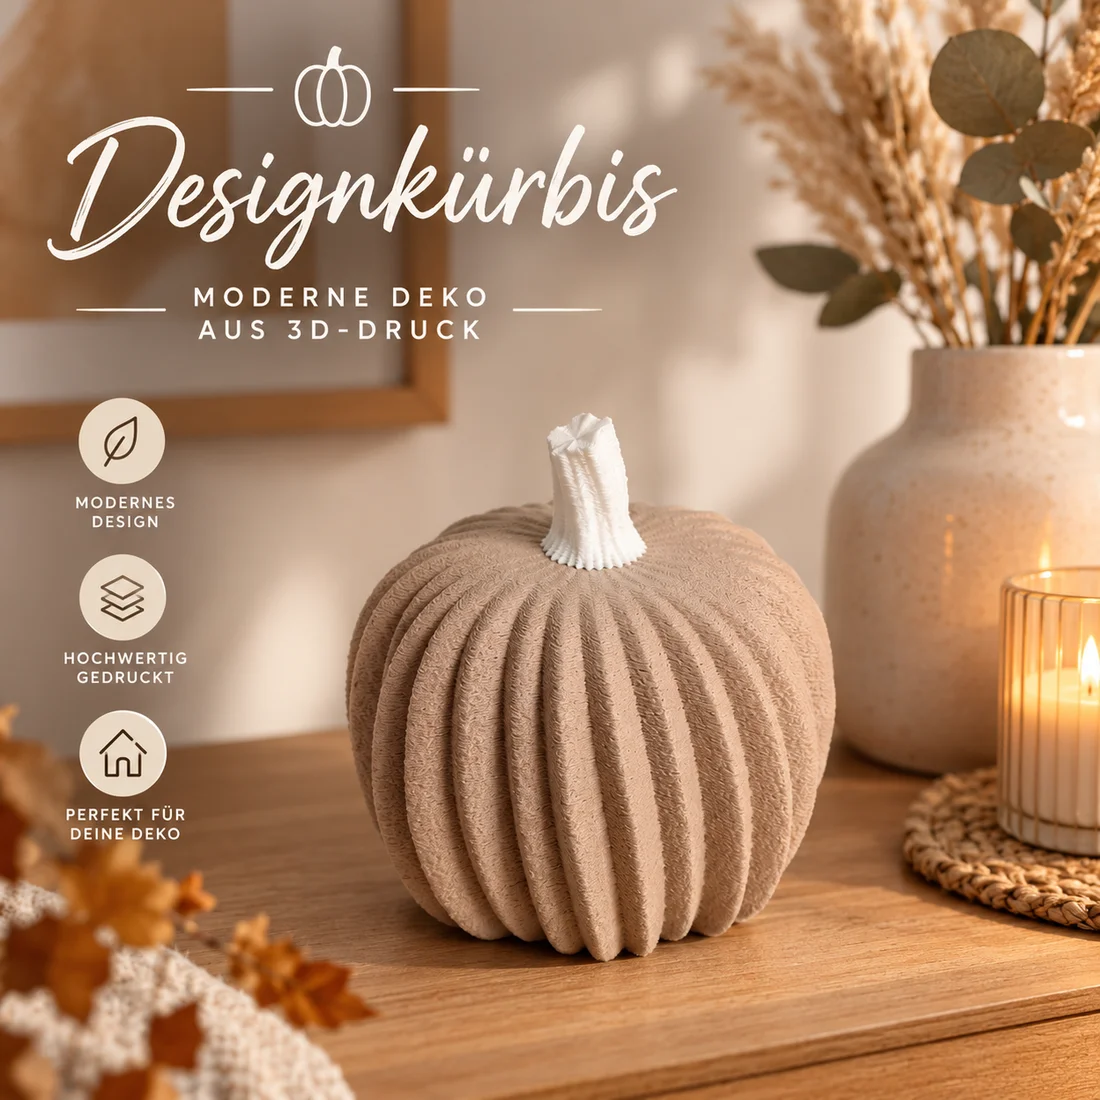
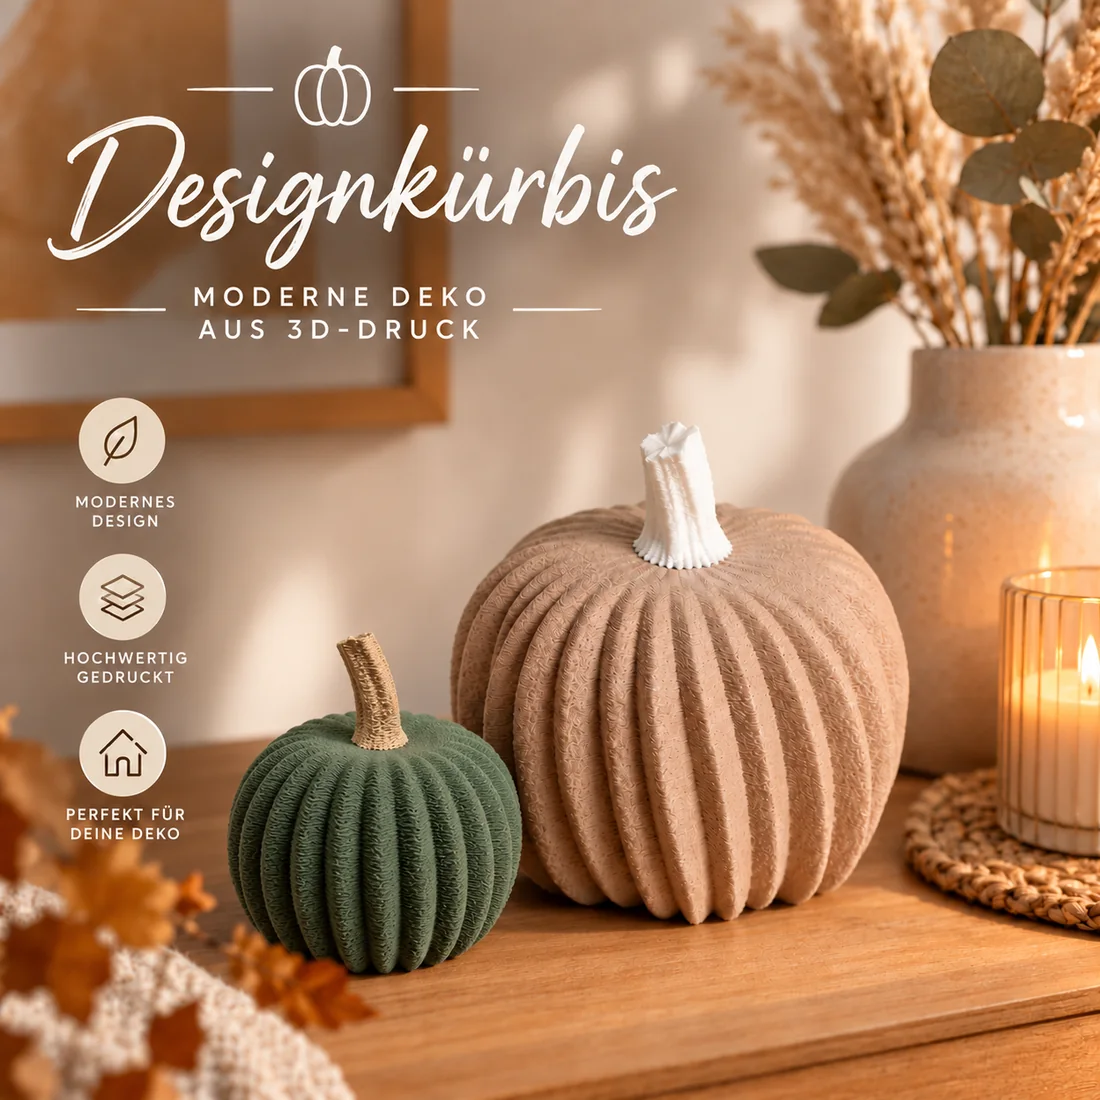
Design-Kuerbis: zwei Groessen (klein 6,90 / mittel 11,90), Farbe fuer Kuerbis und Strunk frei aus 3 Farben, neues Cover + 2 Galeriebilder; Individueller Untersetzer: Bild stehend als 2. Galeriebild
Claude-Session: https://claude.ai/code/session_01J3XNNkixmMVkzjtWsont1N

diff --git a/lib/shop/produkte.ts b/lib/shop/produkte.ts
@@ -59,6 +59,8 @@ export interface Produkt {
   kombinationen?: Farbkombination[];
   /** Mehrteilige Artikel: je Teil eine Lagerfarbe (Auswahl.teilFarben: teilId -> farbeId). */
   teile?: { id: string; label: string; /** Vorauswahl: ähnlichste Lagerfarbe zu dieser Farbe (sonst Standard je Teil-ID, siehe teilfarben.ts) */ referenz?: string }[];
+  /** Feste Farbpalette für mehrteilige Artikel statt der Lagerfarben (Design-Kürbis: nur drei Farben, Alex 19.10.). Keine Lagerprüfung. */
+  festeFarben?: { id: string; name: string; hex: string }[];
   personalisierung: null | Personalisierung;
   /** Zusätzlich wählbare Linienfarbe (Zierlinien am Rand, Individueller Untersetzer): Lagerfarbe, hebt sich vom Untergrund ab. */
   linienfarbe?: boolean;
@@ -105,7 +107,12 @@ const FARBEN_SKELETT: Farbkombination[] = [
   { id: "orange", label: "Orange", farben: [ORANGE] },
 ];
 // Feste Farbe ohne Auswahl (Halloween-Untersetzer: nur die abgebildete Ausführung schwarz/orange/weiß, Alex 18.10.): eine einzige Kombination, die Seite zeigt sie als Hinweis statt als Auswahl
-const FARBEN_DESIGN_KUERBIS: Farbkombination[] = [{ id: "wie-abgebildet", label: "Wie abgebildet", farben: [{ name: "Latte", hex: "#d3b7a7" }, WEISS] }]; // Latte + weißer Strunk, wie fotografiert
+// Design-Kürbis: Kürbis und Strunk getrennt in je einer dieser drei Farben (hex wie die Lagerfarben Latte Brown / Olive grün)
+const FARBEN_DESIGN_KUERBIS = [
+  { id: "lattebraun", name: "Lattebraun", hex: "#d3b7a7" },
+  { id: "weiss", name: "Weiß", hex: "#f4f1ea" },
+  { id: "olivgruen", name: "Olivgrün", hex: "#5a6d3d" },
+];
 const FARBEN_NUR_SCHWARZ: Farbkombination[] = [{ id: "wie-abgebildet", label: "Wie abgebildet", farben: [SCHWARZ, ORANGE, WEISS] }];
 /** Artikel mit nur einer Farbe je Auswahl heißen „Farbe“ statt „Farbkombination“. */
 export const nurEinzelfarben = (p: { kombinationen?: Farbkombination[] }): boolean => !!p.kombinationen?.every((k) => k.farben.length === 1);
@@ -280,13 +287,16 @@ export const PRODUKTE: Produkt[] = [
   {
     slug: "design-kuerbis",
     name: "Design-Kürbis",
-    kurz: "Moderner Deko-Kürbis mit geschwungenen Lamellen, ca. 11 cm hoch.",
+    kurz: "Moderner Deko-Kürbis mit geschwungenen Lamellen in zwei Größen, Farbe für Kürbis und Strunk frei wählbar.",
     beschreibung:
-      "Ein Kürbis als Herbstdeko: 18 geschwungene Lamellen laufen wie gedreht um den Körper, oben sitzt ein gebogener Strunk mit gebrochener Spitze. Der Kürbis steht sicher auf einer flachen Bodenfläche und passt auf Fensterbank, Sideboard oder Esstisch. Er ist ein reines Deko-Stück ohne Öffnung, ein Teelicht passt nicht hinein. Körper und Strunk werden getrennt gedruckt und von mir zusammengesteckt und verklebt. Die Oberfläche ist fein und leicht rau, die Lamellen sieht man auch im Streiflicht. Den Kürbis gibt es aktuell nur in der abgebildeten Ausführung: Latte mit weißem Strunk.",
+      "Ein Kürbis als Herbstdeko: 18 geschwungene Lamellen laufen wie gedreht um den Körper, oben sitzt ein gebogener Strunk mit gebrochener Spitze. Der Kürbis steht sicher auf einer flachen Bodenfläche und passt auf Fensterbank, Sideboard oder Esstisch. Er ist ein reines Deko-Stück ohne Öffnung, ein Teelicht passt nicht hinein. Körper und Strunk werden getrennt gedruckt und von mir zusammengesteckt und verklebt. Die Oberfläche ist fein und leicht rau, die Lamellen sieht man auch im Streiflicht. Du wählst die Größe (Mittel ca. 11 cm, Klein ca. 6 cm hoch) und die Farbe für Kürbis und Strunk getrennt aus Olivgrün, Weiß und Lattebraun. Die Bilder zeigen Beispiele (Mittel in Latte mit weißem Strunk, Klein in Olivgrün mit Latte-Strunk).",
     gruppe: "allgemein", kategorien: ["sonstiges"], form: "laterne", grundfarbe: "#d9731a",
-    preisCent: 1190, masse: "110 × 110 × 115", material: MATERIAL, // Richtpreis (Karla 18.10.), Alex entscheidet; weitere Größen klein 55 × 57 mm (max. 6,90 €) und groß 140 × 145 mm folgen später
-    kombinationen: FARBEN_DESIGN_KUERBIS, // feste Ausführung ohne Farbwahl (Alex 18.10.); Farbvarianten kommen mit den weiteren Größen
-    optionen: [], // Größenauswahl (klein/mittel/groß) kommt, sobald die anderen Größen gedruckt sind; Versandmaße je Größe liegen schon in versand.ts
+    preisCent: 690, masse: null, material: MATERIAL, // Preise (Alex/Karla 18.10.): klein 6,90 (nie mehr), mittel 11,90; Maße stehen in den Größen-Optionen
+    teile: [{ id: "koerper", label: "Kürbis", referenz: "#d3b7a7" }, { id: "strunk", label: "Strunk", referenz: "#f4f1ea" }], // Standard = Latte + weißer Strunk (wie das Beispielfoto)
+    festeFarben: FARBEN_DESIGN_KUERBIS,
+    optionen: [
+      { id: "kuerbisgroesse", label: "Größe", optionen: [{ id: "klein", label: "Klein (55 × 57 mm)" }, { id: "mittel", label: "Mittel (110 × 115 mm)", aufpreisCent: 500 }] },
+    ],
     personalisierung: null, hinweise: [KEIN_SPIELZEUG],
   },
 ];

diff --git a/components/shop/ProductBuy.tsx b/components/shop/ProductBuy.tsx
@@ -18,7 +18,7 @@ import type { Farbe } from "@/lib/shop/farben";
 import { TEXTE } from "@/lib/shop/config";
 import { pruefeWunschtext } from "@/lib/shop/textfilter";
 import { LINIENFARBE_HINWEIS, LINIENFARBE_KEY, TEXTFARBE_HINWEIS, TEXTFARBE_KEY, automatischeLinienfarbe, automatischeTextfarbe, textfarbeErlaubt } from "@/lib/shop/textfarbe";
-import { standardTeilFarben } from "@/lib/shop/teilfarben";
+import { standardTeilFarben, teilQuelle } from "@/lib/shop/teilfarben";
 import { fuegeHinzu, ladeKorb, speichereKorb } from "@/lib/shop/auswahl";
 
 /** Lagerfarbe, die der Fotofarbe am nächsten liegt (Voreinstellung = Foto ohne Umfärbung); null, wenn keine nah genug ist. */
@@ -42,8 +42,9 @@ export default function ProductBuy({
   const kombi = kombis?.find((k) => k.id === kombiId);
   // Mehrteilige Artikel (Kürbis): je Teil eine eigene Lagerfarbe, Standard = ähnlichste Farbe zur Referenz (orange / schwarz).
   const teile = produkt.teile;
-  const [teilWahl, setTeilWahl] = useState<Record<string, string>>(() => (teile ? standardTeilFarben(teile, farben) : {}));
-  const teilFarbe = (id: string) => farben.find((f) => f.id === teilWahl[id]);
+  const teilFarben = teilQuelle(produkt, farben); // Design-Kürbis: feste Palette statt Lager
+  const [teilWahl, setTeilWahl] = useState<Record<string, string>>(() => (teile ? standardTeilFarben(teile, teilFarben) : {}));
+  const teilFarbe = (id: string) => teilFarben.find((f) => f.id === teilWahl[id]);
   const teileHex = teile ? Object.fromEntries(teile.flatMap((t) => { const f = teilFarbe(t.id); return f ? [[t.id, f.hex]] : []; })) : undefined;
   const [opt, setOpt] = useState<Record<string, string>>(() =>
     Object.fromEntries(produkt.optionen.map((g) => [g.id, g.optionen[0].id])),
@@ -307,7 +308,7 @@ export default function ProductBuy({
           </div>
           <p className="muted">{nurEinzelfarben(produkt) ? "Bildschirmfarben können leicht abweichen." : "Fertige Kombination aus drei Farben. Bildschirmfarben können leicht abweichen."}</p>
         </fieldset>
-      ) : teile && farben.length > 0 ? (
+      ) : teile && teilFarben.length > 0 ? (
         <>
           {teile.map((t) => {
             const gew = teilFarbe(t.id);
@@ -315,7 +316,7 @@ export default function ProductBuy({
               <fieldset key={t.id} className="shop-step">
                 <legend>Farbe {t.label}</legend>
                 <div className="shop-swatches">
-                  {farben.map((f) => (
+                  {teilFarben.map((f) => (
                     <label key={f.id} className="shop-swatch">
                       <input type="radio" name={`farbe-${t.id}`} value={f.id} checked={teilWahl[t.id] === f.id} onChange={() => setTeilWahl({ ...teilWahl, [t.id]: f.id })} aria-label={`${f.name} (${t.label})`} />
                       <span className="dot" style={{ background: f.hex }}>
@@ -324,11 +325,11 @@ export default function ProductBuy({
                     </label>
                   ))}
                 </div>
-                <p aria-live="polite" style={{ marginTop: 6 }}><strong>{t.label}: {gew?.name}</strong> · auf Lager</p>
+                <p aria-live="polite" style={{ marginTop: 6 }}><strong>{t.label}: {gew?.name}</strong>{produkt.festeFarben ? "" : " · auf Lager"}</p>
               </fieldset>
             );
           })}
-          <p className="muted">Nur Farben, die gerade im Regal liegen. Bildschirmfarben können leicht abweichen.</p>
+          <p className="muted">{produkt.festeFarben ? "Kürbis und Strunk kannst du in beliebiger Kombination wählen. Die Bilder zeigen Beispiele. Bildschirmfarben können leicht abweichen." : "Nur Farben, die gerade im Regal liegen. Bildschirmfarben können leicht abweichen."}</p>
         </>
       ) : farben.length > 0 ? (
         <fieldset className="shop-step">

diff --git a/lib/shop/fotos.ts b/lib/shop/fotos.ts
@@ -36,8 +36,9 @@ const ALT: Record<string, string[]> = {
     "Namensschild von schräg vorn, Beispieltext",
     "Namensschild von hinten",
   ],
-  // Foto 1 = Untersetzer von oben ohne Text: Farben und Text deiner Wahl werden live daraufgelegt (components/shop/UntersetzerAufdruck.tsx)
+  // Titelbild (Cover) zuerst, dann 3.webp (stehend mit Glas); Datei 1 = Untersetzer von oben ohne Text: Farben und Text deiner Wahl werden live daraufgelegt (components/shop/UntersetzerAufdruck.tsx), siehe LIVE_FOTO
   "spruch-untersetzer": [
+    "Individueller Untersetzer stehend neben einem Glas mit Zitrone und Minze",
     "Individueller Untersetzer von oben mit deinem Text und deinen Farben (Vorschau)",
     "Rückseite des Untersetzers mit selbstklebendem Kork (Option „Mit selbstklebendem Kork“)",
   ],
@@ -65,12 +66,10 @@ const ALT: Record<string, string[]> = {
     "Bewegliches Skelett sitzt, die Gelenke sind beweglich",
     "Bewegliches Skelett liegt in lockerer Pose",
   ],
-  // Fotos zeigen die mittlere Größe (110 mm) in Latte mit weißem Strunk
+  // Titelbild (Cover, mittel + klein im warmen Interieur) kommt automatisch zuerst; Galerie nur 2 Einzelbilder: 5.webp mittel, 6.webp klein (Alex 19.10.)
   "design-kuerbis": [
-    "Design-Kürbis mit geschwungenen Lamellen und hellem Strunk, Vorderansicht",
-    "Design-Kürbis von der Seite, Strunk leicht gebogen",
-    "Design-Kürbis auf der Seite liegend, flache Bodenfläche sichtbar",
-    "Design-Kürbis von oben, Lamellen laufen zum Strunk zusammen",
+    "Design-Kürbis mittel in Latte mit weißem Strunk im Herbstlicht",
+    "Design-Kürbis klein in Olivgrün mit Latte-Strunk",
   ],
   "kuerbis-teelichthalter": [
     "Kürbis-Teelichthalter mit brennendem LED-Teelicht",
@@ -103,9 +102,9 @@ const ALT: Record<string, string[]> = {
 };
 
 /** Dateinummern in Anzeigereihenfolge, wenn sie von 1, 2, 3 ... abweicht (Stiftebecher: Titelbild = Seitenansicht 2.webp, danach die Live-Vorschau 1.webp). */
-export const FOTO_DATEIEN: Record<string, number[]> = { "stiftebecher-tasse": [2, 1, 3, 4], "skelett-beweglich": [2, 3, 1] };
+export const FOTO_DATEIEN: Record<string, number[]> = { "stiftebecher-tasse": [2, 1, 3, 4], "skelett-beweglich": [2, 3, 1], "design-kuerbis": [5, 6], "spruch-untersetzer": [3, 1, 2] };
 /** Index (Anzeigereihenfolge) des Fotos, das die Live-Vorschau ist (umgefärbt, mit Aufdruck); Standard 0. */
-export const LIVE_FOTO: Record<string, number> = { "stiftebecher-tasse": 1 };
+export const LIVE_FOTO: Record<string, number> = { "stiftebecher-tasse": 1, "spruch-untersetzer": 1 };
 export const liveIdx = (slug: string): number => LIVE_FOTO[slug] ?? 0;
 
 /** Produkte mit eigenem Cover-Bild für die Shop-Übersicht (public/shop/cover/<slug>.webp, 1100 × 1100). Die Galerie auf der Produktseite bleibt unverändert. Slug hier eintragen, sobald die Datei liegt. */
@@ -153,7 +152,7 @@ export const UMFAERBEN: Record<string, UmfaerbModus> = {
 /** Beschriftung der Motivfotos (Halloween-Untersetzer einzeln): Foto 1 bis 3 zeigen je ein Motiv, der Name steht in Gruselschrift auf dem Bild. */
 export const MOTIV_BESCHRIFTUNG: Record<string, string[]> = { "halloween-untersetzer-einzeln": ["Kürbis", "Geister", "Spukhaus"] };
 export const OHNE_UMFAERBEN: Record<string, number[]> = {
-  "spruch-untersetzer": [1],
+  "spruch-untersetzer": [0, 2], // Anzeige-Index: 0 = stehend (Original), 1 = Live-Vorschau, 2 = Kork-Rückseite
   "namensschild": [1, 2, 3], // Beispielfotos mit Schrift bleiben Alex' Originale
   "stiftebecher-tasse": [0, 2, 3], // Anzeige-Index: Titelbild und Beispielfotos bleiben Originale, Index 1 ist die Live-Vorschau // Alex' Originalfotos bleiben unverändert (Beispielstücke)
   "kuerbis-laterne": [1], // Dunkel-Foto mit LED-Teelicht: Originalfarben

diff --git a/lib/shop/server/preise.ts b/lib/shop/server/preise.ts
@@ -5,7 +5,7 @@ import "server-only";
 // uebernommen, nur Artikel-Slug, Menge und Auswahl.
 import { KOMBI_KEY, einzelpreisCent, istIndividuell, nurEinzelfarben, type Produkt } from "../produkte";
 import type { Farbe } from "../farben";
-import { standardTeilFarbe } from "../teilfarben";
+import { standardTeilFarbe, teilQuelle } from "../teilfarben";
 import { SCHRIFTEN, SCHRIFT_TITEL_KEY, unerlaubteZeichen, fehlendeZeichen, fehlendeZeichenMeldung } from "../schriften";
 import {
   formatAnzeige, formatAusOptionen, formatUnerlaubt, istFormatSchluessel, pruefePasst, zeilenAnzahl,
@@ -140,12 +140,13 @@ export function berechneWarenkorb(eingabe: unknown, ctx: Kontext, versandart?: u
       if (roh2 !== undefined && !istObjekt(roh2)) return fehler("farbe_ungueltig", "Ungültige Farbwahl.");
       const wahl = roh2 ?? {};
       if (Object.keys(wahl).some((k) => !produkt.teile!.some((t) => t.id === k))) return fehler("farbe_ungueltig", "Ungültige Farbwahl.");
-      if (!ctx.farben[0]) return fehler("farbe_ungueltig", "Zurzeit ist keine Farbe vorrätig. Bitte versuch es später noch einmal.");
+      const quelle = teilQuelle(produkt, ctx.farben);
+      if (!quelle[0]) return fehler("farbe_ungueltig", "Zurzeit ist keine Farbe vorrätig. Bitte versuch es später noch einmal.");
       const gewaehlt: Farbe[] = [];
       for (const t of produkt.teile) {
         const w = wahl[t.id];
-        if (w === undefined) { const standard = standardTeilFarbe(t.id, ctx.farben, t.referenz)!; gewaehlt.push(standard); teilOptionen[t.label] = standard.name; continue; }
-        const f = typeof w === "string" ? ctx.farben.find((x) => x.id === w) : undefined;
+        if (w === undefined) { const standard = standardTeilFarbe(t.id, quelle, t.referenz)!; gewaehlt.push(standard); teilOptionen[t.label] = standard.name; continue; }
+        const f = typeof w === "string" ? quelle.find((x) => x.id === w) : undefined;
         if (!f) return fehler("farbe_ungueltig", `Die Farbe für „${t.label}“ ist nicht (mehr) vorrätig. Bitte wähle eine andere.`);
         gewaehlt.push(f);
         teilOptionen[t.label] = f.name;

diff --git a/tests/shop/preise.test.ts b/tests/shop/preise.test.ts
@@ -430,7 +430,18 @@ test("Halloween-Untersetzer: nur Schwarz, ohne Wahl gueltig, fremde Farbe abgele
   assert.ok(!berechneWarenkorb([{ slug: "halloween-untersetzer-set", menge: 1, optionen: { farbkombi: "orange" } }], ctx()).ok);
 });
 
-test("Design-Kuerbis: feste Ausfuehrung ohne Farbwahl, fremde Auswahl abgelehnt", () => {
-  assert.ok(berechneWarenkorb([{ slug: "design-kuerbis", menge: 1 }], ctx()).ok);
-  assert.ok(!berechneWarenkorb([{ slug: "design-kuerbis", menge: 1, optionen: { farbkombi: "pink" } }], ctx()).ok);
+test("Design-Kuerbis: Groesse + feste Farbpalette fuer Kuerbis und Strunk getrennt, Preis klein 6,90 / mittel 11,90", () => {
+  const o = (g: string, k: string, s: string) => ({ slug: "design-kuerbis", menge: 1, optionen: { kuerbisgroesse: g }, teilFarben: { koerper: k, strunk: s } });
+  const klein = berechneWarenkorb([o("klein", "olivgruen", "lattebraun")], ctx({ produkte: PRODUKTE }));
+  const mittel = berechneWarenkorb([o("mittel", "weiss", "olivgruen")], ctx({ produkte: PRODUKTE }));
+  assert.ok(klein.ok && mittel.ok);
+  if (klein.ok && mittel.ok) {
+    assert.equal(klein.wert.gesamtCent, 690 + 410, "6,90 + Versand");
+    assert.equal(mittel.wert.gesamtCent, 1190 + 410, "11,90 + Versand");
+    assert.equal(klein.wert.positionen[0].optionen["Strunk"], "Lattebraun");
+  }
+  assert.ok(!berechneWarenkorb([o("klein", "pink", "lattebraun")], ctx({ produkte: PRODUKTE })).ok, "fremde Farbe");
+  assert.ok(!berechneWarenkorb([o("gross", "weiss", "weiss")], ctx({ produkte: PRODUKTE })).ok, "Groesse gross gibt es nicht");
+  const ohne = berechneWarenkorb([{ slug: "design-kuerbis", menge: 1, optionen: { kuerbisgroesse: "mittel" } }], ctx({ produkte: PRODUKTE }));
+  assert.ok(ohne.ok && ohne.wert.positionen[0].optionen["Kürbis"] === "Lattebraun" && ohne.wert.positionen[0].optionen["Strunk"] === "Weiß", "Standard Latte + weißer Strunk");
 });

diff --git a/lib/shop/teilfarben.ts b/lib/shop/teilfarben.ts
@@ -25,6 +25,9 @@ export function standardTeilFarbe(teilId: string, farben: Farbe[], referenz?: st
   return farben.reduce<Farbe | undefined>((best, f) => (!best || farbAbstand(f.hex, ref) < farbAbstand(best.hex, ref) ? f : best), undefined);
 }
 
+/** Farbquelle mehrteiliger Artikel: feste Palette des Artikels (Design-Kürbis) oder die Lagerfarben. */
+export const teilQuelle = (p: Pick<Produkt, "festeFarben">, farben: Farbe[]): Farbe[] => p.festeFarben ?? farben;
+
 export function standardTeilFarben(teile: NonNullable<Produkt["teile"]>, farben: Farbe[]): Record<string, string> {
   const r: Record<string, string> = {};
   for (const t of teile) { const f = standardTeilFarbe(t.id, farben, t.referenz); if (f) r[t.id] = f.id; }
@@ -32,7 +35,8 @@ export function standardTeilFarben(teile: NonNullable<Produkt["teile"]>, farben:
 }
 
 /** Aufgelöste Teilfarben einer Position (fehlt eine Wahl, gilt die Standardfarbe). */
-export function teilFarbenVon(p: Produkt, a: Pick<Auswahl, "teilFarben">, farben: Farbe[]): { id: string; label: string; farbe?: Farbe }[] {
+export function teilFarbenVon(p: Produkt, a: Pick<Auswahl, "teilFarben">, lager: Farbe[]): { id: string; label: string; farbe?: Farbe }[] {
+  const farben = teilQuelle(p, lager);
   return (p.teile ?? []).map((t) => ({
     id: t.id, label: t.label,
     farbe: farben.find((f) => f.id === a.teilFarben?.[t.id]) ?? (a.teilFarben?.[t.id] ? undefined : standardTeilFarbe(t.id, farben, t.referenz)),
